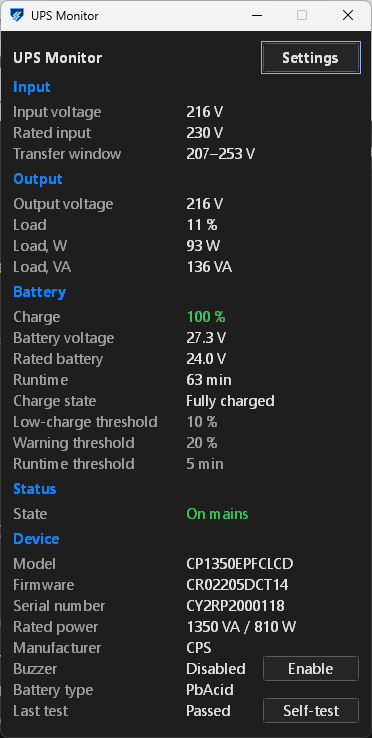
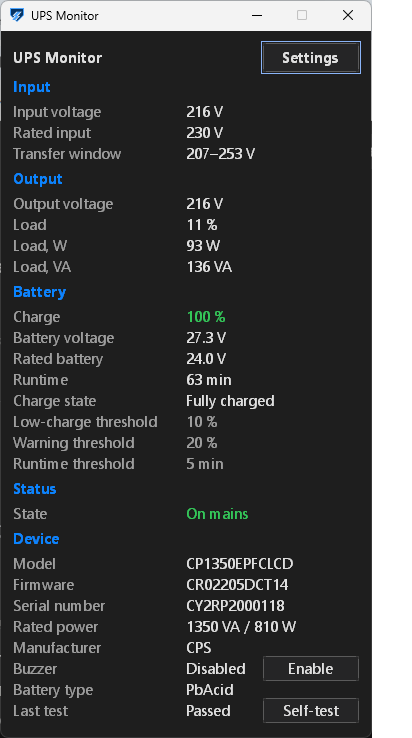
Add files via upload

diff --git a/README.md b/README.md
@@ -10,7 +10,7 @@ model and on no other. See [Hardware](#hardware).
 
 ## What it does
 
-<img src="docs/panel.png" alt="The status panel, dark theme" width="304" align="left">
+<img src="docs/panel.png" alt="The status panel, dark theme" width="310" align="left">
 
 - **Tray icon in four states**, first match wins: no contact with the device;
   critical — internal failure, overload, charge below the device's capacity
@@ -34,6 +34,8 @@ model and on no other. See [Hardware](#hardware).
   week writes no lines at all.
 - **24 interface languages**, compiled into the binary.
 - **Two themes**, dark and light, switchable without a restart.
+
+<br clear="left">
 
 ## What it deliberately does not do
 
